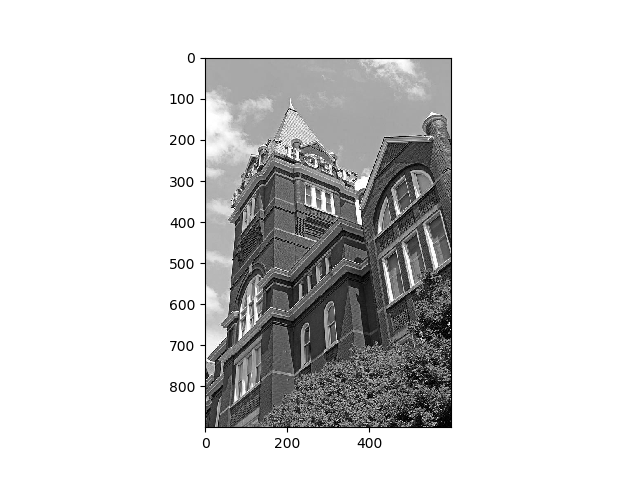
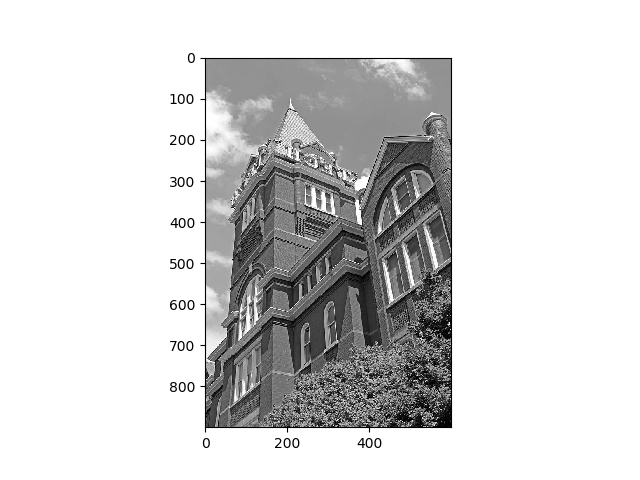
fixed the swap image

diff --git a/PS1/PS1Q3.py b/PS1/PS1Q3.py
@@ -8,7 +8,7 @@ class Prob3():
         """Load input color image inputPS1Q3.jpg here and assign it as a class variable"""
         ###### START CODE HERE ######
 
-        self.A = cv2.imread('inputPS1Q3.jpg')
+        self.A = io.imread('inputPS1Q3.jpg')
 
         ###### END CODE HERE ######
         pass
@@ -41,8 +41,9 @@ class Prob3():
         
         ###### START CODE HERE ######
 
-        swapImg = np.copy(self.A)
-        swapImg[:, :, 0], swapImg[:, :, 1] = swapImg[:, :, 1], swapImg[:, :, 0]
+        swapImg = np.zeros((self.A.shape))
+        swapImg[:, :, 0], swapImg[:, :, 1], swapImg[:, :, 2] = self.A[:, :, 1], self.A[:, :, 0], self.A[:, :, 2]
+        swapImg = swapImg.astype(np.uint8)
         plt.imshow(swapImg)
         plt.savefig('outputPS1Q3_1.png')
         plt.show()

diff --git a/PS1/PS1Q4.py b/PS1/PS1Q4.py
@@ -8,6 +8,7 @@ class Prob4():
         """Load input color image indoor.png and outdoor.png here as class variables."""
         ###### START CODE HERE ######
 
+        self.imin = 
 
         ###### END CODE HERE ######
         pass
